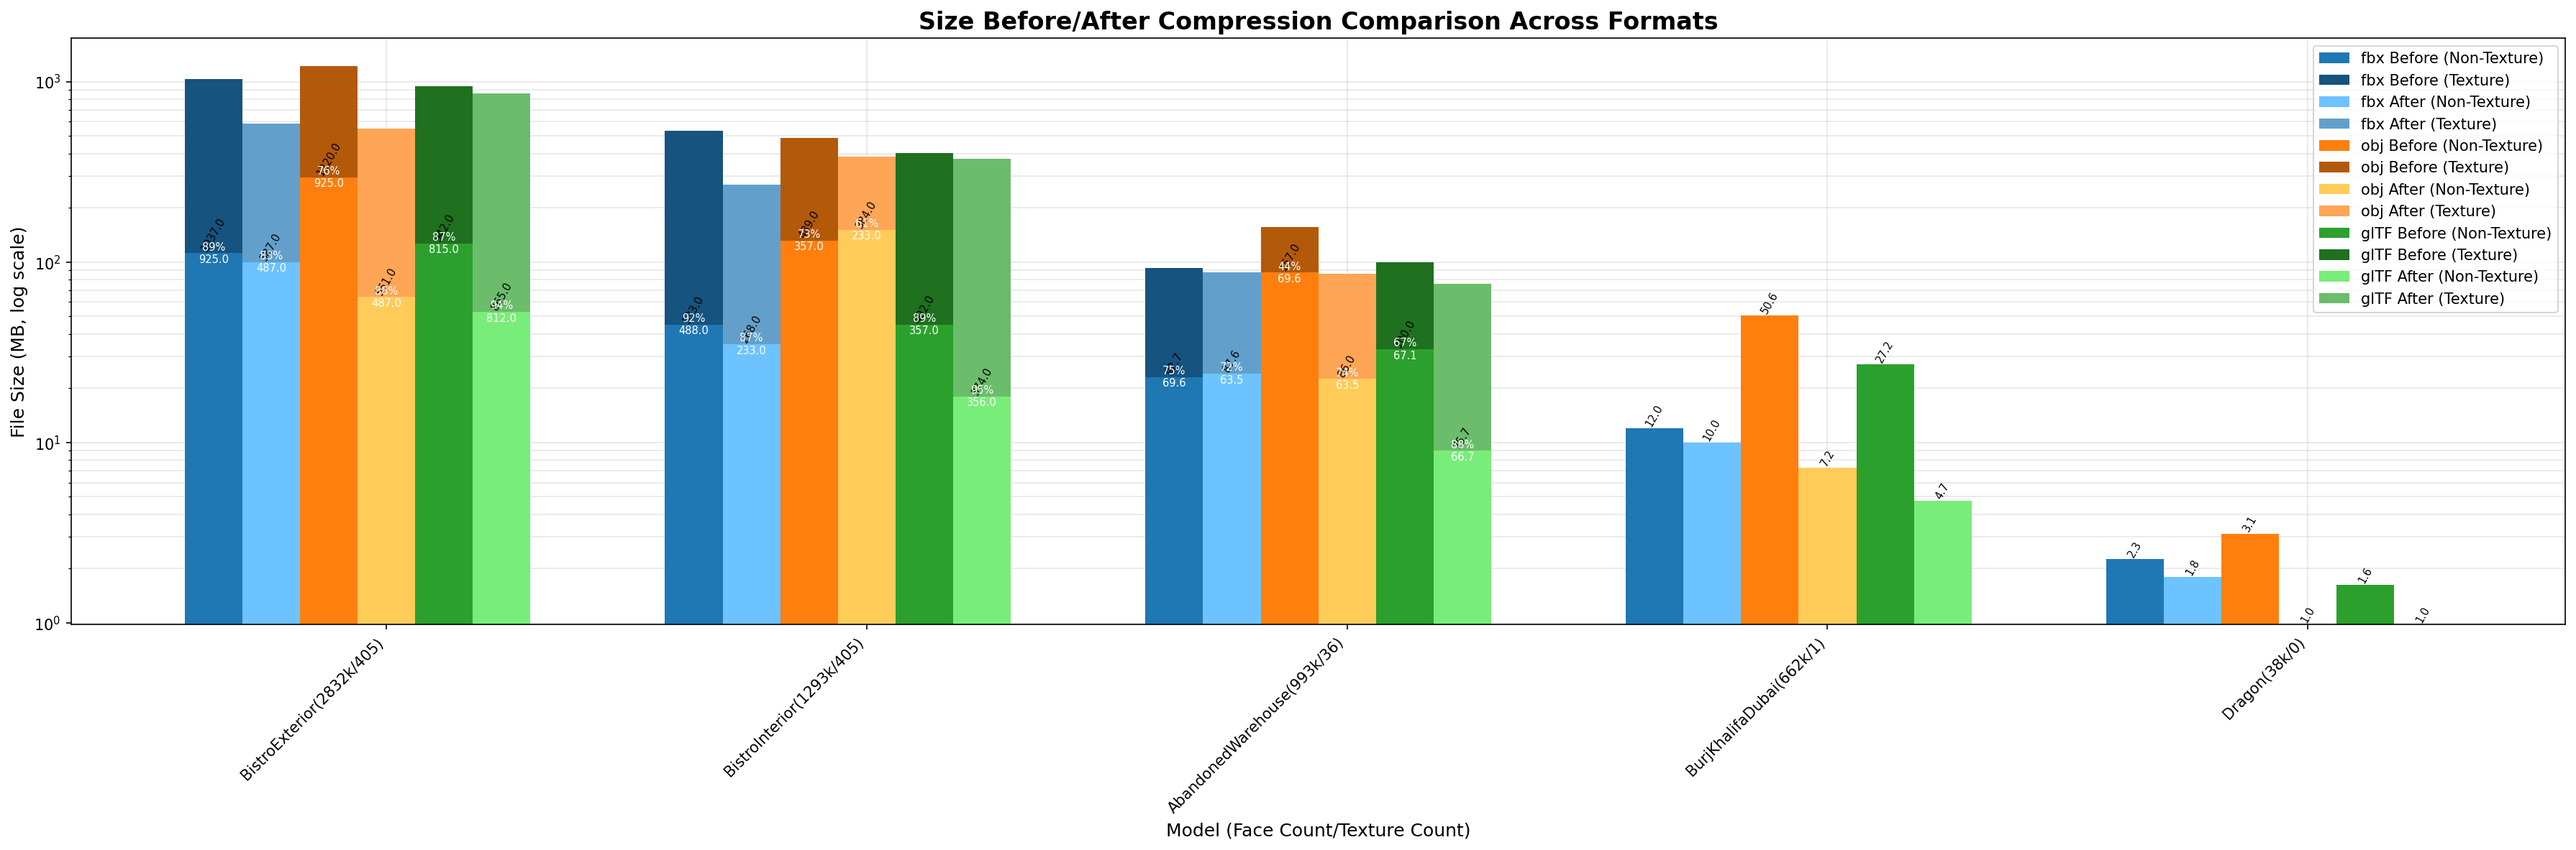
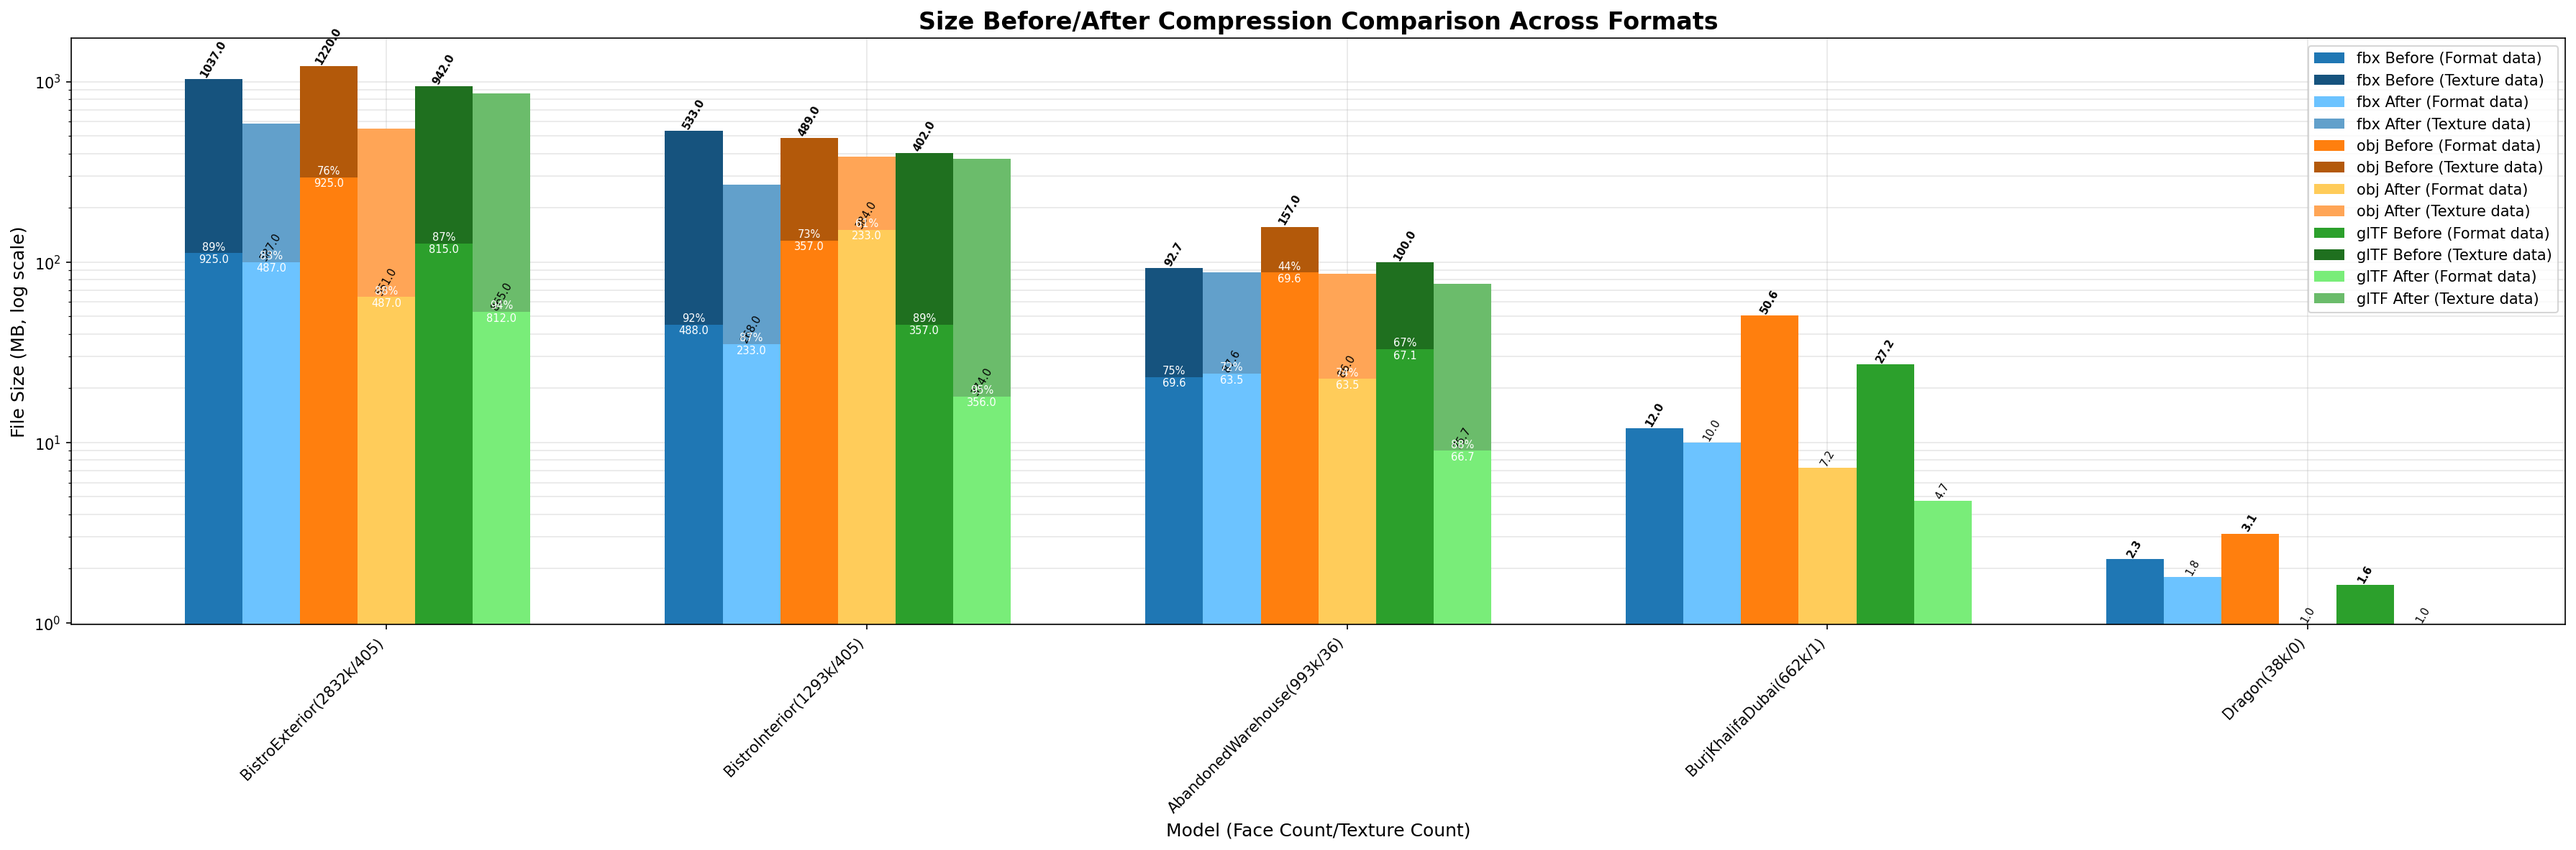
Fix chart data and visualization scaling (#37)
* fix: 修正SizeBefore/AfterCompression图表的图例、数据标注、视觉比例问题，并新增线性高图表于报告底部

* Regenerate Python bytecode cache files

---------

Changed region(s): [[0.8989, 0.0609, 0.9919, 0.3652]]

diff --git a/Scripts/main.py b/Scripts/main.py
@@ -926,6 +926,9 @@ def create_combined_report(models_data):
     create_compression_texture_ratio(models_data)
     create_model_format_compression_ratio_chart(models_data)
 
+    # 生成线性高图
+    create_all_format_size_before_after_linear_tall(models_data)
+
     # 图表文件名及标题
     chart_files = [
         ("Charts/all_format_size_before_after.png", "All-Format Size Before/After Compression"),
@@ -934,6 +937,7 @@ def create_combined_report(models_data):
         ("Charts/size_memory_comparison.png", "File Size and Memory Usage Comparison"),
         ("Charts/peak_memory_usage.png", "Peak Memory Usage"),
         ("Charts/import_time_comparison.png", "Import Time Comparison"),
+        ("Charts/all_format_size_before_after_linear_tall.png", "All-Format Size Before/After Compression (Linear Tall)")
     ]
     # 直接嵌入图片
     chart_imgs = ""
@@ -1071,11 +1075,11 @@ def create_all_format_size_before_after(models_data):
         color_before_texture = tuple(np.clip(np.array(base_colors[i]) * 0.7, 0, 1))
         color_after_texture = tuple(np.clip(np.array(base_colors[i]) * 0.7 + 0.3, 0, 1))
         non_texture_before = [max(0, v-t) for v, t in zip(before_vals, texture_before)]
-        bars1 = ax.bar(x + offset, non_texture_before, width, label=f'{fmt} Before (Non-Texture)', color=color_before, zorder=2)
-        bars1_texture = ax.bar(x + offset, texture_before, width, bottom=non_texture_before, label=f'{fmt} Before (Texture)', color=color_before_texture, zorder=3)
+        bars1 = ax.bar(x + offset, non_texture_before, width, label=f'{fmt} Before (Format data)', color=color_before, zorder=2)
+        bars1_texture = ax.bar(x + offset, texture_before, width, bottom=non_texture_before, label=f'{fmt} Before (Texture data)', color=color_before_texture, zorder=3)
         non_texture_after = [max(0, v-t) for v, t in zip(after_vals, texture_after)]
-        bars2 = ax.bar(x + offset + width, non_texture_after, width, label=f'{fmt} After (Non-Texture)', color=color_after, zorder=2)
-        bars2_texture = ax.bar(x + offset + width, texture_after, width, bottom=non_texture_after, label=f'{fmt} After (Texture)', color=color_after_texture, zorder=3)
+        bars2 = ax.bar(x + offset + width, non_texture_after, width, label=f'{fmt} After (Format data)', color=color_after, zorder=2)
+        bars2_texture = ax.bar(x + offset + width, texture_after, width, bottom=non_texture_after, label=f'{fmt} After (Texture data)', color=color_after_texture, zorder=3)
         # 标注
         for idx, (bar, v, t) in enumerate(zip(bars1, before_vals, texture_before)):
             if v is None:
@@ -1177,11 +1181,11 @@ def create_all_format_size_before_after_linear_tall(models_data):
         color_before_texture = tuple(np.clip(np.array(base_colors[i]) * 0.7, 0, 1))
         color_after_texture = tuple(np.clip(np.array(base_colors[i]) * 0.7 + 0.3, 0, 1))
         non_texture_before = [max(0, v-t) for v, t in zip(before_vals, texture_before)]
-        bars1 = ax.bar(x + offset, non_texture_before, width, label=f'{fmt} Before (Non-Texture)', color=color_before, zorder=2)
-        bars1_texture = ax.bar(x + offset, texture_before, width, bottom=non_texture_before, label=f'{fmt} Before (Texture)', color=color_before_texture, zorder=3)
+        bars1 = ax.bar(x + offset, non_texture_before, width, label=f'{fmt} Before (Format data)', color=color_before, zorder=2)
+        bars1_texture = ax.bar(x + offset, texture_before, width, bottom=non_texture_before, label=f'{fmt} Before (Texture data)', color=color_before_texture, zorder=3)
         non_texture_after = [max(0, v-t) for v, t in zip(after_vals, texture_after)]
-        bars2 = ax.bar(x + offset + width, non_texture_after, width, label=f'{fmt} After (Non-Texture)', color=color_after, zorder=2)
-        bars2_texture = ax.bar(x + offset + width, texture_after, width, bottom=non_texture_after, label=f'{fmt} After (Texture)', color=color_after_texture, zorder=3)
+        bars2 = ax.bar(x + offset + width, non_texture_after, width, label=f'{fmt} After (Format data)', color=color_after, zorder=2)
+        bars2_texture = ax.bar(x + offset + width, texture_after, width, bottom=non_texture_after, label=f'{fmt} After (Texture data)', color=color_after_texture, zorder=3)
         for idx, (bar, v, t) in enumerate(zip(bars1, before_vals, texture_before)):
             if v is None:
                 ax.text(bar.get_x() + bar.get_width()/2., 0.5, 'Missing', ha='center', va='bottom', fontsize=7, color='red', rotation=60, zorder=4)
